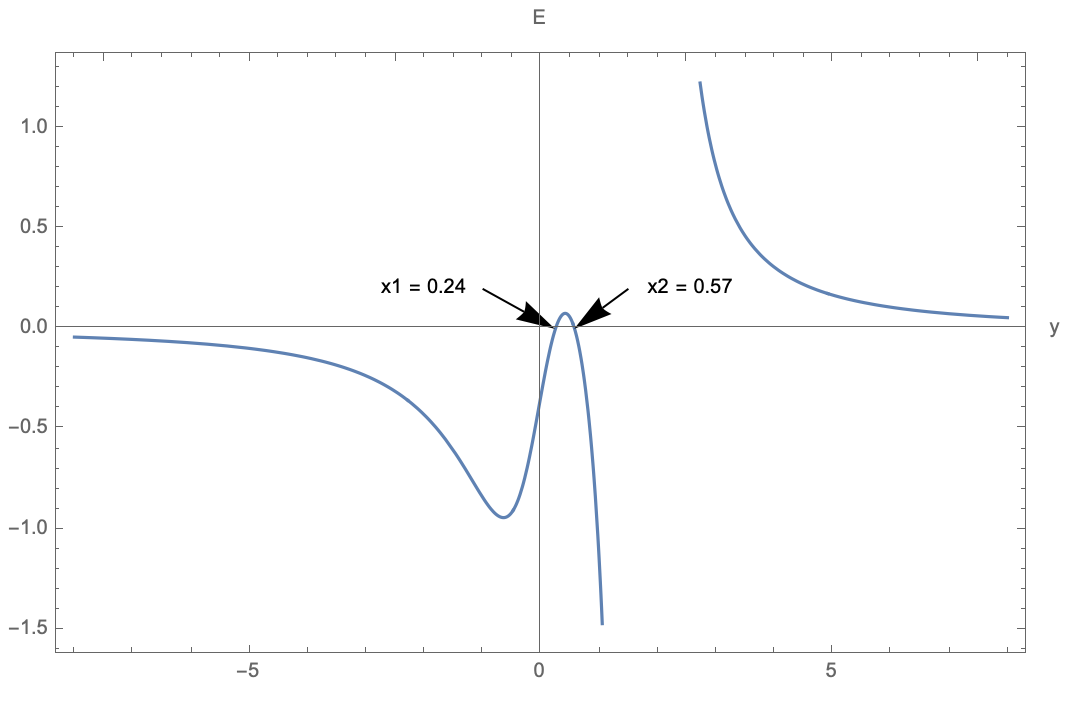
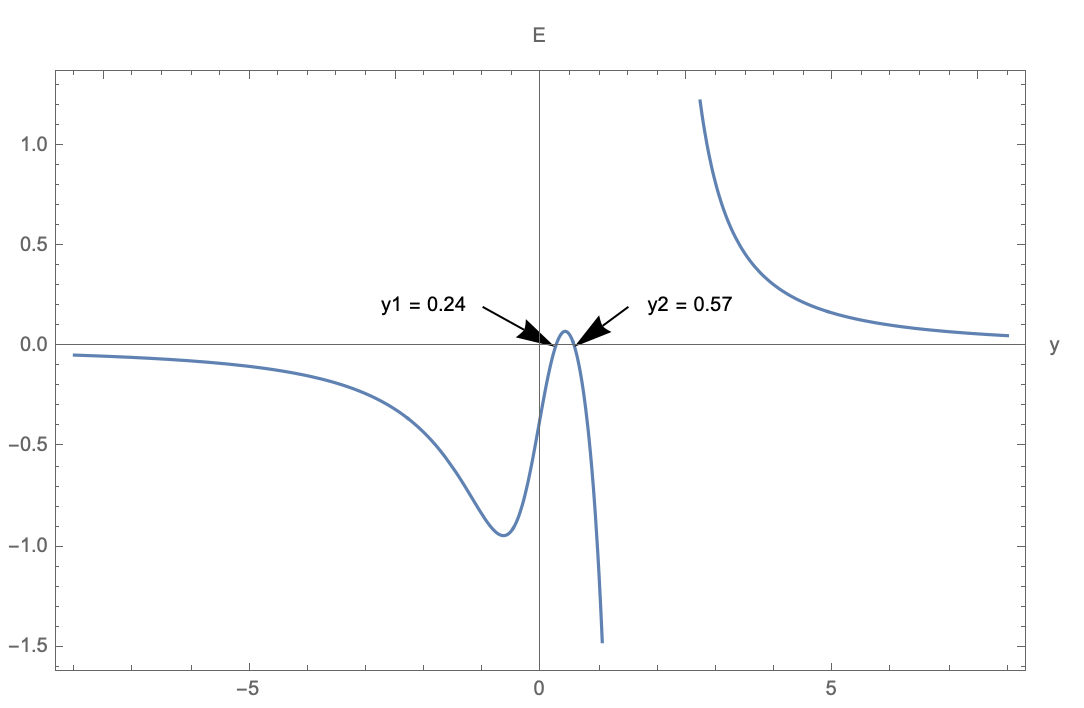
fix: some fig bugs

diff --git a/_posts/2020-04-07-electric-field-simulation-2.md b/_posts/2020-04-07-electric-field-simulation-2.md
@@ -15,7 +15,7 @@ description: 三个电荷的电场和电势分布到底是怎么样的呢？
 
 <img src='/assets/images/2020-04-07-electric-field-simulation-2/fig.png' style='zoom:40%; margin: 0 auto; display: block;'/>
 
-对于这个题，整个结构是对称的，可以从两个正电荷的中垂线处下手。我们发现，两个正电荷的合电场强度在中垂线上是沿着中垂线的，而负电荷就在中垂线上，在中垂线上的电场强度也是沿着中垂线的。可以通过对比距离点电荷远近 $r$ 来确定合场强为 0 的位置。
+对于这个题，整个结构是对称的，可以从两个正电荷的中垂线处下手。我们发现，两个正电荷在中垂线上的合电场强度是沿着中垂线的，而负电荷在中垂线上的电场强度也是沿着中垂线的。可以通过对比距离点电荷远近 $r$ 来确定合场强为 0 的位置。
 
 答案是 2 处合场强为 0 的位置 (无穷远处除外)。
 
@@ -27,7 +27,7 @@ description: 三个电荷的电场和电势分布到底是怎么样的呢？
 
 <img src='/assets/images/2020-04-07-electric-field-simulation-2/p2n1-e.png' style='zoom:30%; margin: 0 auto; display: block;'/>
 
-从图中(箭头处)可以看出，在 $y = -0.15$ 和 $y = 6.20$ 位置电场强度为 0。
+从图中(箭头处)可以看出，有两处的电场强度为 0，但具体位置无法确定。
 
 ### 1.2 电场强度大小分布
 画出某点 $P(x,y)$ 处受到三个点电荷的电场强度的大小分布：
@@ -38,7 +38,7 @@ description: 三个电荷的电场和电势分布到底是怎么样的呢？
 
 <img src='/assets/images/2020-04-07-electric-field-simulation-2/p2n1-ey.png' style='zoom:40%; margin: 0 auto; display: block;'/>
 
-从图中可以，除无穷远处电场强度为零，还有 2 个位置的电场强度大小也为 0。
+从图中可以，除无穷远处电场强度为零，还有 2 个位置的电场强度大小也为 0，在 $y = -0.15$ 和 $y = 6.20$ 。
 
 ### 1.3 电势分布
 
@@ -63,7 +63,7 @@ description: 三个电荷的电场和电势分布到底是怎么样的呢？
 
 <img src='/assets/images/2020-04-07-electric-field-simulation-2/p3-ey.png' style='zoom:40%; margin: 0 auto; display: block;'/>
 
-从图中可以看出，当三角形的顶点放置三个等量电荷时，除无穷远外，$y$ 轴方向仍有两个位置能使合场强为 0，分别为 $y = 0.24$ 和 $y = 0.7$。
+从图中可以看出，当三角形的顶点放置三个等量电荷时，除无穷远外，$y$ 轴方向仍有两个位置能使合场强为 0，分别为 $y = 0.24$ 和 $y = 0.57$。
 
 ### 2.3 电势分布
 
